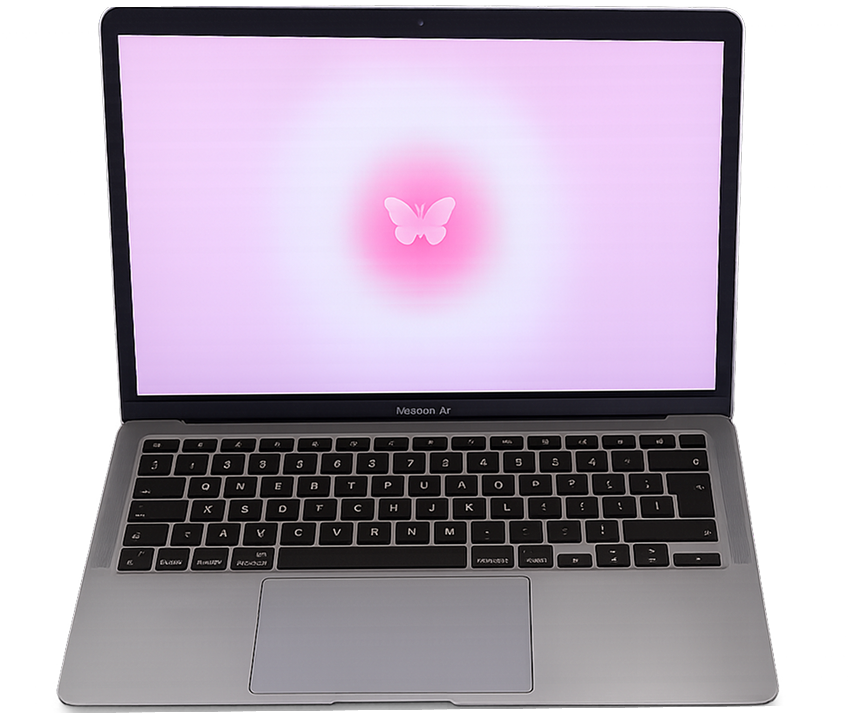
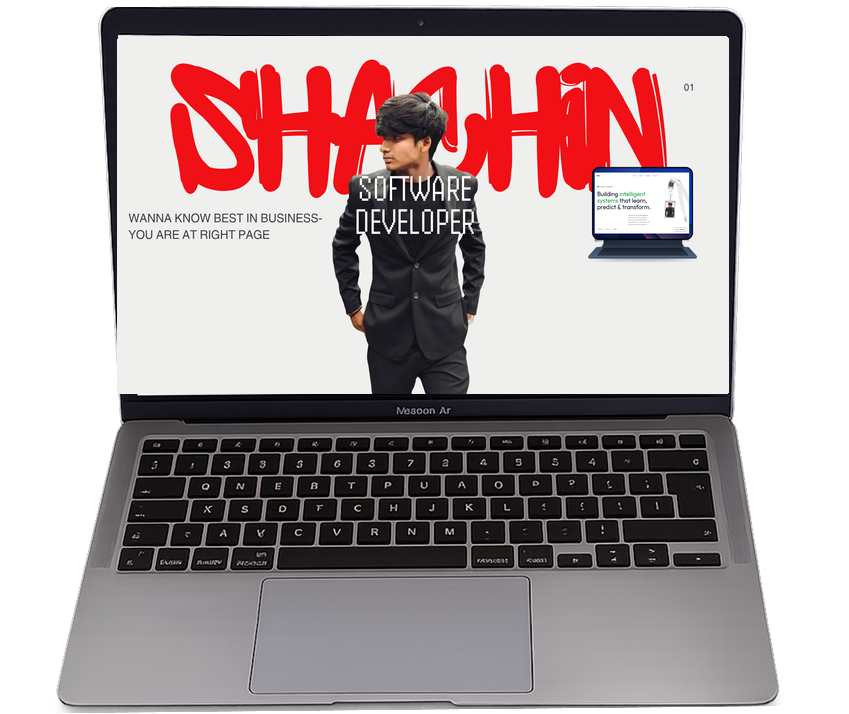
feat(desk): remove yellow click notification, apply sha.png wallpaper to 3D laptop, and align shelf with LinkedIn tag

diff --git a/src/components/ArrangeDeskScene.tsx b/src/components/ArrangeDeskScene.tsx
@@ -182,48 +182,10 @@ function DraggableObject({ item, containerRef }: DraggableObjectProps) {
   );
 }
 
-// ─── INFO PANEL (MATCHING IMAGE 2) ──────────────────────────────────────────
+// ─── INFO PANEL (REMOVED PER USER REQUEST) ──────────────────────────────────
 
 function DeskInfoPanel() {
-  const ctx = useContext(ArrangeDeskContext);
-  if (!ctx?.activeItem) return null;
-
-  return (
-    <AnimatePresence>
-      <motion.div
-        key={ctx.activeItem.id}
-        initial={{ opacity: 0, y: -6, scale: 0.95 }}
-        animate={{ opacity: 1, y: 0, scale: 1 }}
-        exit={{ opacity: 0, y: -6, scale: 0.95 }}
-        transition={{ duration: 0.2, ease: "easeOut" }}
-        className="absolute z-50 right-1 top-0 max-w-[240px] p-3 sm:p-3.5 rounded-2xl shadow-xl border border-black/5 select-none"
-        style={{
-          background: "rgba(253, 230, 138, 0.97)",
-          backdropFilter: "blur(8px)",
-          color: "#111111",
-        }}
-      >
-        <div className="flex items-start justify-between gap-2.5">
-          <div>
-            <div className="text-[13px] font-bold leading-tight text-gray-950">
-              {ctx.activeItem.label}
-            </div>
-            <div className="text-[11.5px] leading-snug text-gray-800/80 mt-1">
-              {ctx.activeItem.detail}
-            </div>
-          </div>
-          <button
-            type="button"
-            onClick={ctx.clearActiveItem}
-            className="text-gray-600 hover:text-gray-950 text-base leading-none p-0.5 opacity-70 hover:opacity-100 transition-opacity cursor-pointer"
-            aria-label="Close"
-          >
-            ×
-          </button>
-        </div>
-      </motion.div>
-    </AnimatePresence>
-  );
+  return null;
 }
 
 // ─── DATA ITEMS DEFINITIONS ─────────────────────────────────────────────────
@@ -328,13 +290,13 @@ const DESK_ITEMS: DeskItemData[] = [
  * Top-Left Floating Shelf (Image 3)
  * Mounted at the top-left corner of the contact page with space from the top.
  */
-export function ArrangeDeskShelf() {
+export function ArrangeDeskShelf({ className = "" }: { className?: string }) {
   const containerRef = useRef<HTMLDivElement>(null);
 
   return (
     <div
       ref={containerRef}
-      className="absolute top-3 sm:top-5 md:top-6 left-0 z-20 w-[240px] sm:w-[260px] h-[145px] pointer-events-auto select-none overflow-visible"
+      className={`absolute top-[108px] sm:top-[118px] md:top-[122px] left-0 z-20 w-[240px] sm:w-[260px] h-[145px] pointer-events-auto select-none overflow-visible ${className}`}
       style={{ touchAction: "none" }}
     >
       {/* Wooden Floating Shelf Wall Mount */}
@@ -367,9 +329,6 @@ export function ArrangeDeskStation() {
       className="relative w-full max-w-[390px] sm:max-w-[410px] h-[215px] sm:h-[230px] mt-1 sm:mt-2 pointer-events-auto select-none overflow-visible"
       style={{ touchAction: "none" }}
     >
-      {/* Floating Info Tooltip */}
-      <DeskInfoPanel />
-
       {/* Standing Desk Surface */}
       {/* eslint-disable-next-line @next/next/no-img-element */}
       <img
